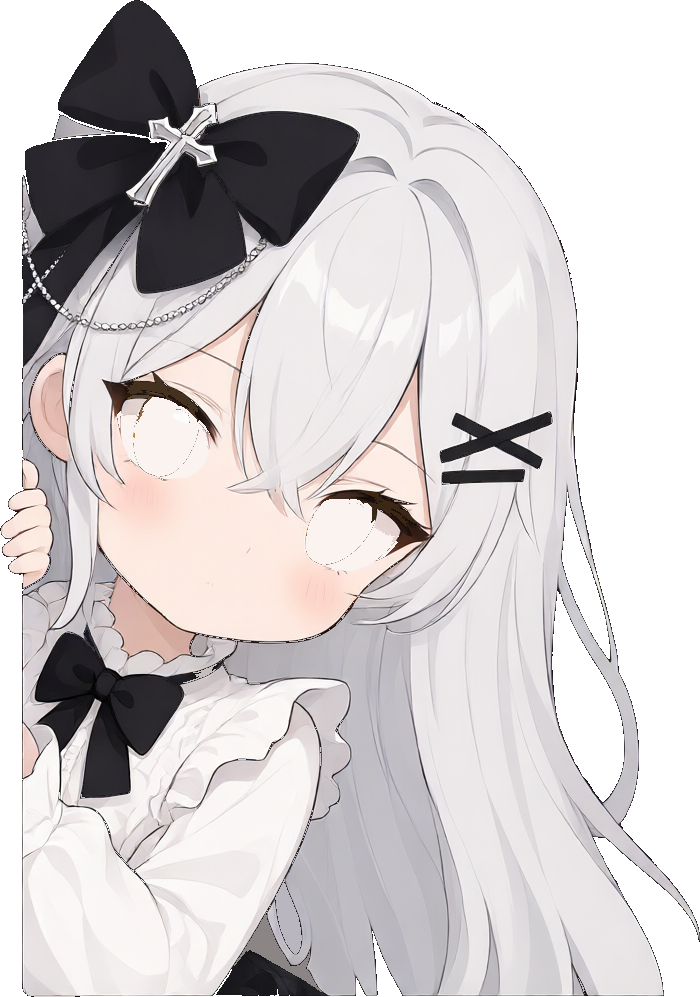
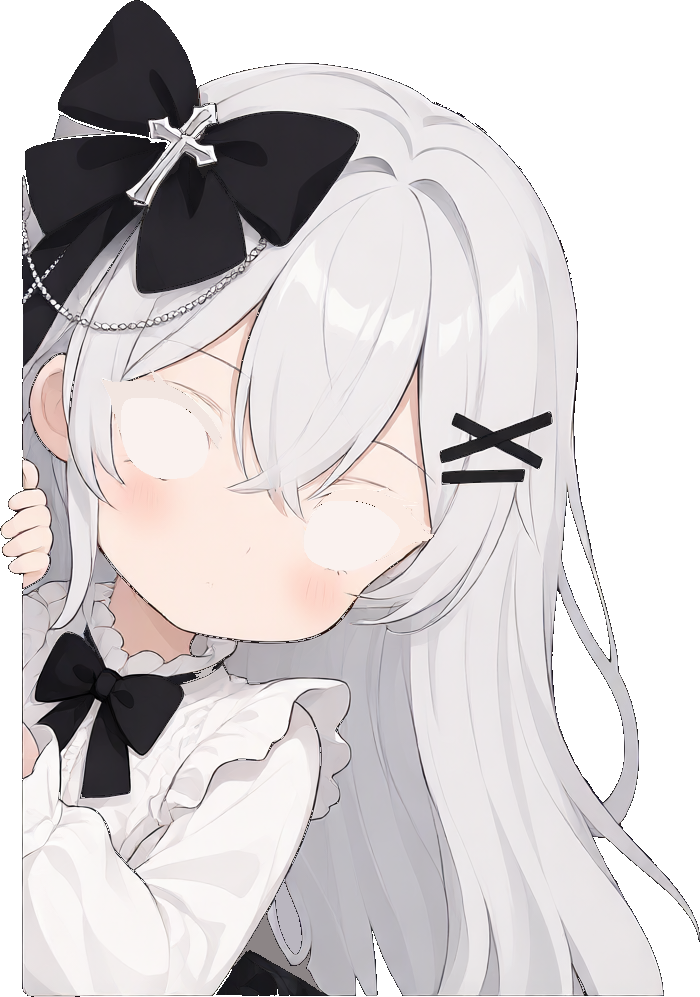
mascot v5: PSD hand-cut layer stack (eye/eyesocket/eyelash per eye)
- Harvest all parts from the user's PSD (psd_to_parts.py + psd_masks.py):
  base2 = PS base with the eye opening filled flat sclera and lash band
  repainted from surround skin; iris = eye_* layers; wall = eyesocket_*
  (sclera underlay below the iris); lash = eyelash_* (open-state frame);
  socket masks = fill_holes(eye|socket) feathered - fixed clip windows so
  the pupil can never leave the eye opening.
- Closed-eye lids re-generated by qwen-image-2.1 editing the CLEAN PSD base
  (blink2_s55667788), mask = union of the three hand-cut layers per eye.
- Layer order: base2 < wall < iris(masked, tracks cursor) < lash < lid(blink).
  Brow and hair live in the untouched PS base - zero blink damage (verified:
  0 changed px outside the eye boxes in rest/look/blink states, 0 golden px
  while blink, reassembly within 1005/57412 feather-edge diffs).
- Drop obsolete combined oc_lash/oc_eyestatic.

Changed region(s): [[0.48, 0.4664, 0.63, 0.5597], [0.15, 0.3731, 0.27, 0.4353], [0.27, 0.4042, 0.33, 0.4353]]

diff --git a/components/FloatingMascot.tsx b/components/FloatingMascot.tsx
@@ -4,14 +4,14 @@ import { useEffect, useState, useRef, useCallback } from "react";
 import Image from "next/image";
 
 /**
- * 屏幕左侧 Q 版看板娘（Web 2.5D 切件看板娘组件 v4）
+ * 屏幕左侧 Q 版看板娘（Web 2.5D 切件看板娘组件 v5 / PSD 手扣分层版）
  *
- * 层序（Z 从低到高）：
- *   base2(底图,眼球像素填平眼白+完整手指) < iris_l/r(眼球件,随光标位移,
- *   经眼孔遮罩裁切永远出不了眼眶) < lash(睁眼睫毛环,眨眼时隐藏)
- *   < lid_l/r(闭眼件,仅眨眼时显示) < eyestatic(眉毛+白发静止件,永远最上层)
- * 眨眼 = 隐藏 iris+lash、显示 lids；眉毛/白发由 static 层恒定保住。
- * 立绘本体不随动，仅眼睛注视光标；点击只弹台词气泡（不摆手）。
+ * 层序（Z 从低到高，眨眼态只换 lid 对）：
+ *   base2(挖空眼区的完整底图,眉/发/手零损失)
+ *   < wall_l/r(眼白+眼角内壁,随眼睛开合) < iris_l/r(眼球,随光标位移,被
+ *   socket 遮罩裁在眼眶内) < lash_l/r(睫毛线框) < lid_l/r(闭眼件,仅眨眼显示)
+ * 部件全部来自用户 PSD 手扣图层（psd_to_parts.py 收割），像素级原图一致。
+ * 立绘本体不随动，仅眼睛注视光标；点击只弹台词气泡。底边贴浏览器下缘。
  */
 
 interface MascotProps {
@@ -20,17 +20,28 @@ interface MascotProps {
   toggleHide: string;
 }
 
-/* 部件几何：canvas 700x997 的百分比（源自 _tmp_mascot/parts_report.json v5.1） */
+/* 部件几何：canvas 700x997 的百分比（源自 _tmp_mascot/parts_report.json v5-PSD） */
 const GEO = {
-  irisL: { left: "16.43%", top: "39.62%", width: "13.71%", height: "8.63%" },
-  irisR: { left: "43.43%", top: "49.85%", width: "13.71%", height: "7.62%" },
-  lash: { left: "11.86%", top: "34.90%", width: "50.71%", height: "25.08%" },
-  static: { left: "11.86%", top: "34.90%", width: "50.71%", height: "26.68%" },
-  lidL: { left: "11.71%", top: "34.80%", width: "20.71%", height: "13.94%" },
-  lidR: { left: "42.86%", top: "44.33%", width: "19.86%", height: "15.95%" },
+  wallL: { left: "17.14%", top: "39.82%", width: "12.57%", height: "8.32%" },
+  wallR: { left: "43.29%", top: "50.15%", width: "14.00%", height: "7.12%" },
+  irisL: { left: "19.00%", top: "39.92%", width: "9.57%", height: "8.02%" },
+  irisR: { left: "43.43%", top: "50.15%", width: "10.43%", height: "6.52%" },
+  lashL: { left: "14.43%", top: "37.21%", width: "17.29%", height: "7.72%" },
+  lashR: { left: "44.86%", top: "48.95%", width: "17.14%", height: "7.32%" },
+  lidL: { left: "14.14%", top: "36.91%", width: "17.86%", height: "11.43%" },
+  lidR: { left: "43.00%", top: "48.65%", width: "19.29%", height: "8.83%" },
+  // socket 遮罩窗口（固定不随眼球移动）：iris bbox 四周外扩 12px
+  sockWinL: { left: "17.29%", top: "38.72%", width: "13.00%", height: "10.43%" },
+  sockWinR: { left: "41.71%", top: "48.95%", width: "13.86%", height: "8.93%" },
 };
 
-/* 眼孔遮罩：虹膜位移后被裁切在眼眶内，绝不越界压到睫毛线 */
+/* iris 相对 socket 窗口原点的静止偏移与尺寸（实测换算） */
+const IRIS_IN_SOCK = {
+  l: { left: "13.19%", top: "11.54%", width: "73.63%", height: "76.92%" },
+  r: { left: "12.37%", top: "13.48%", width: "75.26%", height: "73.03%" },
+};
+
+/* 眼眶裁切遮罩：眼球位移后仍被裁在眼眶内（用户手扣 eyesocket 轮廓） */
 const SOCKET_MASK = {
   l: "url(/oc_socket_l.png)",
   r: "url(/oc_socket_r.png)",
@@ -195,7 +206,7 @@ export default function FloatingMascot({ quotes, toggleShow, toggleHide }: Masco
             style={{ animation: "mascot-breathe 4.5s ease-in-out infinite" }}
           >
             <div className="relative -ml-2.5 w-36 sm:w-44 md:w-48 aspect-[700/997] filter drop-shadow-[0_8px_20px_rgba(224,144,12,0.18)] dark:drop-shadow-[0_8px_24px_rgba(224,144,12,0.14)]">
-              {/* Z10 底图：眼球像素填平眼白 + 身体头发手指 */}
+              {/* Z10 底图：眼区挖空（周边皮肤回填）+ 眉毛白发手指完整 */}
               <div className="absolute inset-0 z-10">
                 <Image
                   src="/oc_base2.png"
@@ -206,11 +217,25 @@ export default function FloatingMascot({ quotes, toggleShow, toggleHide }: Masco
                 />
               </div>
 
-              {/* Z20 眼球件：外层固定+眼孔遮罩裁切，内层随光标位移（眨眼时隐藏） */}
+              {/* Z15 眼白内壁 wall：眼球下层补底（眨眼时隐藏） */}
+              <div
+                className="absolute z-[15] pointer-events-none"
+                style={{ ...GEO.wallL, opacity: openEyeOpacity, transition: "opacity 0.07s linear" }}
+              >
+                <Image src="/oc_wall_l.png" alt="" fill className="object-contain" />
+              </div>
+              <div
+                className="absolute z-[15] pointer-events-none"
+                style={{ ...GEO.wallR, opacity: openEyeOpacity, transition: "opacity 0.07s linear" }}
+              >
+                <Image src="/oc_wall_r.png" alt="" fill className="object-contain" />
+              </div>
+
+              {/* Z20 眼球：socket 遮罩窗口固定，窗口内 iris 随光标位移（眨眼隐藏） */}
               <div
                 className="absolute z-20 pointer-events-none"
                 style={{
-                  ...GEO.irisL,
+                  ...GEO.sockWinL,
                   opacity: openEyeOpacity,
                   WebkitMaskImage: SOCKET_MASK.l,
                   maskImage: SOCKET_MASK.l,
@@ -220,8 +245,9 @@ export default function FloatingMascot({ quotes, toggleShow, toggleHide }: Masco
                 }}
               >
                 <div
-                  className="absolute inset-0"
+                  className="absolute"
                   style={{
+                    ...IRIS_IN_SOCK.l,
                     transform: `translate(${eyeOffset.x}px, ${eyeOffset.y}px)`,
                     transition: "transform 0.12s ease-out",
                   }}
@@ -232,7 +258,7 @@ export default function FloatingMascot({ quotes, toggleShow, toggleHide }: Masco
               <div
                 className="absolute z-20 pointer-events-none"
                 style={{
-                  ...GEO.irisR,
+                  ...GEO.sockWinR,
                   opacity: openEyeOpacity,
                   WebkitMaskImage: SOCKET_MASK.r,
                   maskImage: SOCKET_MASK.r,
@@ -242,8 +268,9 @@ export default function FloatingMascot({ quotes, toggleShow, toggleHide }: Masco
                 }}
               >
                 <div
-                  className="absolute inset-0"
+                  className="absolute"
                   style={{
+                    ...IRIS_IN_SOCK.r,
                     transform: `translate(${eyeOffset.x}px, ${eyeOffset.y}px)`,
                     transition: "transform 0.12s ease-out",
                   }}
@@ -252,15 +279,21 @@ export default function FloatingMascot({ quotes, toggleShow, toggleHide }: Masco
                 </div>
               </div>
 
-              {/* Z30 睁眼睫毛环（眨眼时隐藏） */}
+              {/* Z30 睫毛线框 lash：左右眼独立（眨眼隐藏） */}
               <div
                 className="absolute z-30 pointer-events-none"
-                style={{ ...GEO.lash, opacity: openEyeOpacity, transition: "opacity 0.07s linear" }}
+                style={{ ...GEO.lashL, opacity: openEyeOpacity, transition: "opacity 0.07s linear" }}
               >
-                <Image src="/oc_lash.png" alt="" fill className="object-contain" />
+                <Image src="/oc_lash_l.png" alt="" fill className="object-contain" />
+              </div>
+              <div
+                className="absolute z-30 pointer-events-none"
+                style={{ ...GEO.lashR, opacity: openEyeOpacity, transition: "opacity 0.07s linear" }}
+              >
+                <Image src="/oc_lash_r.png" alt="" fill className="object-contain" />
               </div>
 
-              {/* Z40 闭眼件（仅眨眼时显示） */}
+              {/* Z40 闭眼件（仅眨眼显示；覆盖眼白+眼球+睫毛线区） */}
               <div
                 className="absolute z-40 pointer-events-none"
                 style={{ ...GEO.lidL, opacity: lidOpacity, transition: "opacity 0.07s linear" }}
@@ -272,11 +305,6 @@ export default function FloatingMascot({ quotes, toggleShow, toggleHide }: Masco
                 style={{ ...GEO.lidR, opacity: lidOpacity, transition: "opacity 0.07s linear" }}
               >
                 <Image src="/oc_lid_r.png" alt="" fill className="object-contain" />
-              </div>
-
-              {/* Z50 静止件：眉毛+白发（永远最上层，眨眼不闪失） */}
-              <div className="absolute z-50 pointer-events-none" style={GEO.static}>
-                <Image src="/oc_eyestatic.png" alt="" fill className="object-contain" />
               </div>
             </div>
           </div>
